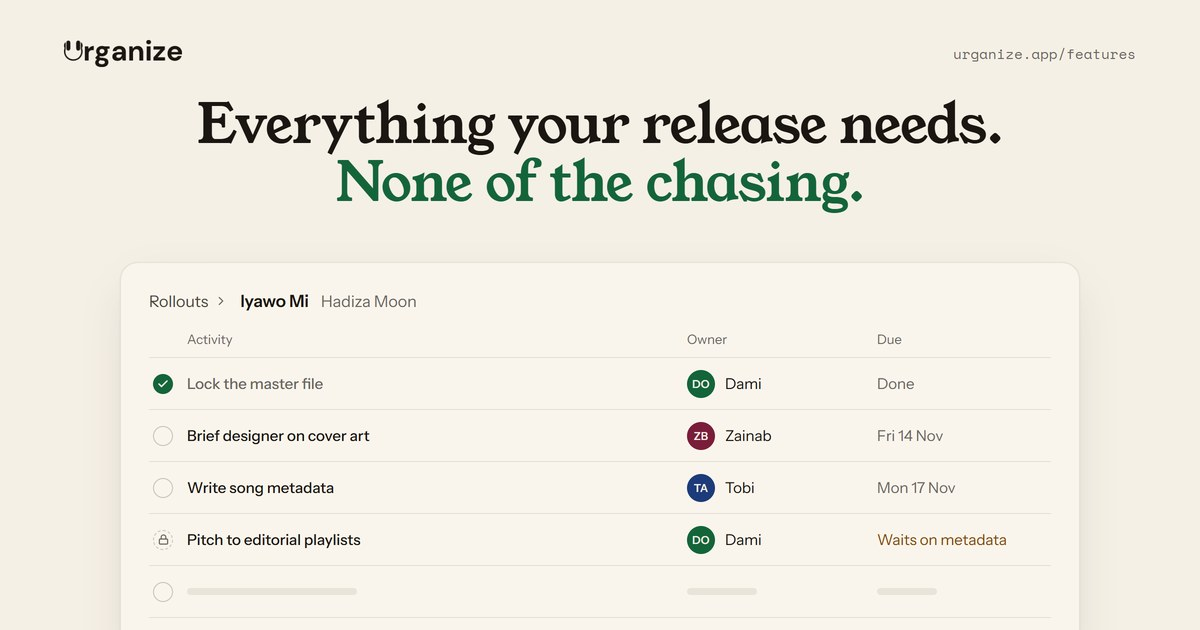
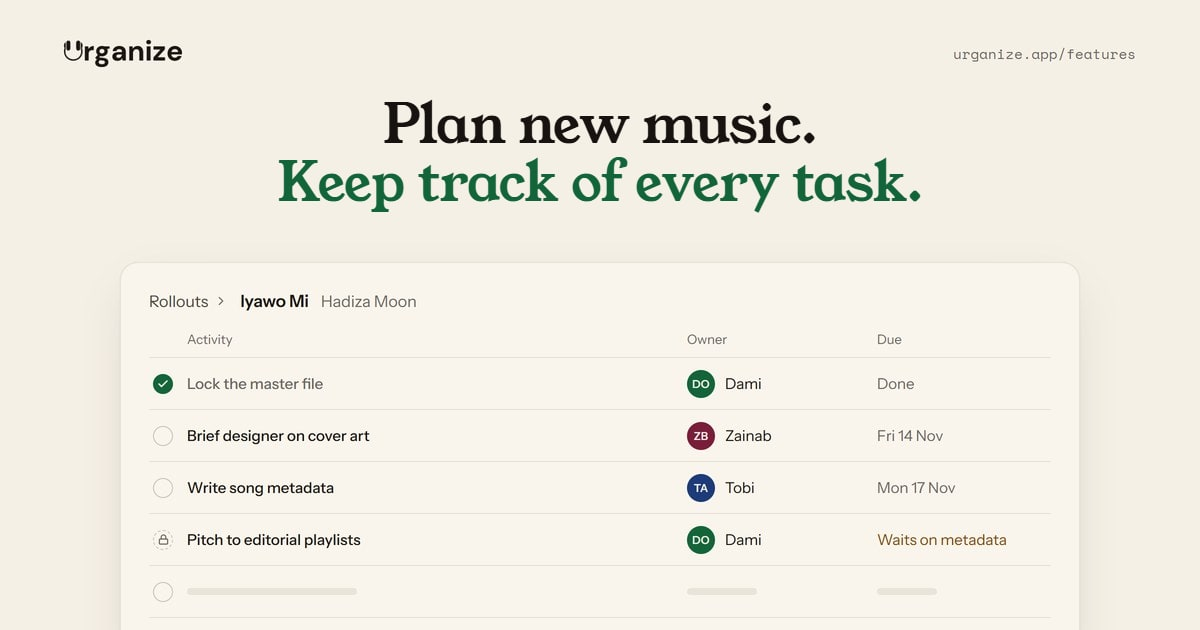
Share cards for features and record labels carry the new headlines [deploy]
features.jpg and for-executives.jpg redrawn from the approved 1 Nov cards
with only the headline changed to each page's H1 ("Plan new music. Keep
track of every task." and "Every artist's new music. Every task
tracked."), same font, size and colours (measured against the originals).
Both pages use their own card again, the alts match the pictures, and
SHARE_CARDS_VERSION is bumped so WhatsApp and X fetch the new images.
Mocks approved by the founder on 10 Nov.

Fixes #1173
URG-584

Changed region(s): [[0.1542, 0.1508, 0.8325, 0.3619]]

diff --git a/apps/homepage/lib/seo.ts b/apps/homepage/lib/seo.ts
@@ -107,17 +107,16 @@ const SHARE_IMAGE = {
 //    Do7SrY1rfUe9AnuvdARCMu) and update its alt here in the same commit;
 //  - bump SHARE_CARDS_VERSION whenever any file in public/share/ changes, or
 //    WhatsApp and X keep showing the old picture.
-const SHARE_CARDS_VERSION = "2026-11-01-page-cards";
-// 2026-11-09 (#1153): /features and /for-executives changed their H1s to the
-// new positioning, so their cards (features.jpg, for-executives.jpg) show old
-// headlines. Both pages use the default SHARE_IMAGE until the cards are
-// redrawn; their entries below stay so the files still resolve.
+const SHARE_CARDS_VERSION = "2026-11-10-new-headlines";
+// 2026-11-10 (#1173, mocks approved by the founder): features.jpg and
+// for-executives.jpg redrawn with the pages' new H1s from #1153. Same frame and
+// product slice as the 1 Nov cards; only the headline changed.
 
 const SHARE_CARDS = {
   pricing: "Urganize pricing. Pay for the roster, not the headcount. The Northline Music team list on one plan.",
-  features: "Urganize features. Everything your release needs. None of the chasing. A task list where every task has an owner and a due date.",
+  features: "Urganize features. Plan new music. Keep track of every task. A task list where every task has an owner and a due date.",
   "for-managers": "Urganize for artist managers. Every artist’s release. One screen, not five chats. Five artists’ rollouts on one list, with progress.",
-  "for-executives": "Urganize for executives. Every artist. Every rollout. On plan. The roster with each artist’s next release and its status.",
+  "for-executives": "Urganize for record labels. Every artist’s new music. Every task tracked. The roster with each artist’s next release and its status.",
   "for-curators": "Urganize for curators. People pitch you all day. Answer in one tap. The pitch inbox with one pitch marked Added.",
   "for-ai-artists": "Urganize for AI artists. You can make a song in an hour. Releasing one still takes weeks. A three-week plan up to release day.",
   guides: "Urganize guides. Plan a music release, step by step. A list of steps by week and role.",

diff --git a/apps/homepage/app/for-executives/page.tsx b/apps/homepage/app/for-executives/page.tsx
@@ -21,6 +21,7 @@ export const metadata: Metadata = buildPageMetadata({
   description:
     "Plan new music across your roster. Each artist's plan fits their goals, every task has an owner and you see what worked for each one.",
   path: "/for-executives",
+  shareCard: "for-executives",
 });
 
 // This is the persona page for the team running a roster. It was written for

diff --git a/apps/homepage/app/features/page.tsx b/apps/homepage/app/features/page.tsx
@@ -15,6 +15,7 @@ export const metadata: Metadata = buildPageMetadata({
   description:
     "Tell Urganize your goals and get a plan that fits, or make your own. Track every task, solo or with a team. After each task it asks how it went.",
   path: "/features",
+  shareCard: "features",
 });
 
 // One small still per feature section (#962, mock approved by the founder
